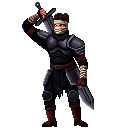
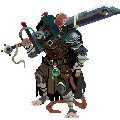
new player

diff --git a/src/entity/Entity.js b/src/entity/Entity.js
@@ -20,6 +20,9 @@ export default class Entity {
     this.directionToTarget = new THREE.Vector3();
     this.cameraForward = new THREE.Vector3();
     this.cameraRight = new THREE.Vector3();
+    this.meshCellPosition = new THREE.Vector3();
+    this.cameraOffsetDirection = new THREE.Vector3();
+    this.cameraDepthOffset = this.name === "warrior" ? 0.3 : 0;
     this.syncMeshToCell(this.cellPosition);
     this.inventory = new InventoryManager();
     sceneManager.add(this.mesh);
@@ -27,21 +30,36 @@ export default class Entity {
 
   syncMeshToCell(cell) {
     if (!cell) return;
+
     this.cellPosition = cell;
     const floorTopY = CONSTANTS.FLOOR_HEIGHT;
     const meshCenterY = 0.5;
-    this.mesh.position.set(
+    this.meshCellPosition.set(
       this.cellPosition.worldX,
       floorTopY + this.mesh.scale.y * meshCenterY,
       this.cellPosition.worldZ,
     );
+    this.#syncMeshVisualPosition(this.lastCamera);
   }
 
   syncMeshToCamera(camera) {
     if (!camera || !this.mesh) return;
 
     this.lastCamera = camera;
+    this.#syncMeshVisualPosition(camera);
     this.#syncMeshYawToPosition(camera.position);
+  }
+
+  #syncMeshVisualPosition(camera) {
+    this.mesh.position.copy(this.meshCellPosition);
+    if (!camera || this.cameraDepthOffset === 0) return;
+
+    this.cameraOffsetDirection.subVectors(camera.position, this.meshCellPosition);
+    this.cameraOffsetDirection.y = 0;
+    if (this.cameraOffsetDirection.lengthSq() === 0) return;
+
+    this.cameraOffsetDirection.normalize().multiplyScalar(this.cameraDepthOffset);
+    this.mesh.position.add(this.cameraOffsetDirection);
   }
 
   #syncMeshYawToPosition(position) {

diff --git a/src/core/textureManager.js b/src/core/textureManager.js
@@ -51,12 +51,12 @@ class TextureManager {
       chaser_idle_5: "/enemies/chaser/Idle5.png",
       chaser_idle_6: "/enemies/chaser/Idle6.png",
       warrior_idle_1: "/player/warrior/idle/1.png",
-      warrior_idle_2: "/player/warrior/idle/2.png",
-      warrior_idle_3: "/player/warrior/idle/3.png",
-      warrior_idle_4: "/player/warrior/idle/4.png",
-      warrior_idle_5: "/player/warrior/idle/5.png",
-      warrior_idle_6: "/player/warrior/idle/6.png",
-      warrior_idle_7: "/player/warrior/idle/7.png",
+      // warrior_idle_2: "/player/warrior/idle/2.png",
+      // warrior_idle_3: "/player/warrior/idle/3.png",
+      // warrior_idle_4: "/player/warrior/idle/4.png",
+      // warrior_idle_5: "/player/warrior/idle/5.png",
+      // warrior_idle_6: "/player/warrior/idle/6.png",
+      // warrior_idle_7: "/player/warrior/idle/7.png",
       rouge_idle_1: "/player/rouge/idle/1.png",
       rouge_idle_2: "/player/rouge/idle/2.png",
       rouge_idle_3: "/player/rouge/idle/3.png",

diff --git a/src/EnemiesManager/EnemiesManager.js b/src/EnemiesManager/EnemiesManager.js
@@ -13,8 +13,8 @@ export default class EnemiesManager {
       this.enemies.find((enemy) => enemy.cellPosition?.id === cell.id) ?? null
     );
   }
-
-  tryAttack(player) {
+  
+  async tryAttack(player) {
     const dieEnemies = [];
     for (const enemy of this.enemies) {
       if (enemy.hp < 1) {
@@ -28,7 +28,7 @@ export default class EnemiesManager {
       );
 
       if (isPlayer) {
-        enemy.tryAttack(player);
+        await enemy.tryAttack(player);
         this.#tryHitAndRun(enemy, player.cellPosition);
       }
     }

diff --git a/src/levelManager/levelManager.js b/src/levelManager/levelManager.js
@@ -51,7 +51,7 @@ export default class LevelManager {
           const enemy = this.enemies.getEnemy(cell);
           await this.player.tryAttack(enemy);
           console.log('атака прошла')
-          const dieEnemies = this.enemies.tryAttack(this.player);
+          const dieEnemies = await this.enemies.tryAttack(this.player);
           this.loot.renderLootAfterDieEnemy(dieEnemies);
         } else {
           if (cell.loot) {

diff --git a/src/entity/createMashEntity.js b/src/entity/createMashEntity.js
@@ -45,6 +45,8 @@ export default class MashEntity {
   #getScale(typeTexture) {
     if (typeTexture === "rouge") {
       this.mesh.scale.set(2, 2, 2);
+    } else if (typeTexture === "warrior") {
+      this.mesh.scale.set(1.5, 1.5, 1.5);
     } else if (typeTexture === "glot") {
       this.mesh.scale.set(2, 2, 2);
     } else {

diff --git a/src/runManager/runManager.js b/src/runManager/runManager.js
@@ -14,7 +14,7 @@ export default class RunManager {
     this.runMap = [];
     this.activeIndex = 0;
     this.aciveLevel = null;
-    this.player = new Player(null, HERO_CLASS["rouge"]);
+    this.player = new Player(null, HERO_CLASS["warrior"]);
     this.#init();
   }
   #init() {

diff --git a/src/grid/grid.js b/src/grid/grid.js
@@ -16,7 +16,7 @@ class Cell {
     this.enemy = null;
     this.loot = null;
     this.meta = {};
-    this.visible = true;
+    this.visible = false;
     this.expand = false;
   }
 }

diff --git a/src/static/enemy.js b/src/static/enemy.js
@@ -16,7 +16,6 @@ export const ENEMY_TYPE_RULES = {
     lootDropChance: 0.05,
     speed: 1,
     windUpTurns: 0,
-    hitAndRun: true,
   },
   bruiser: {
     hp: 6,
